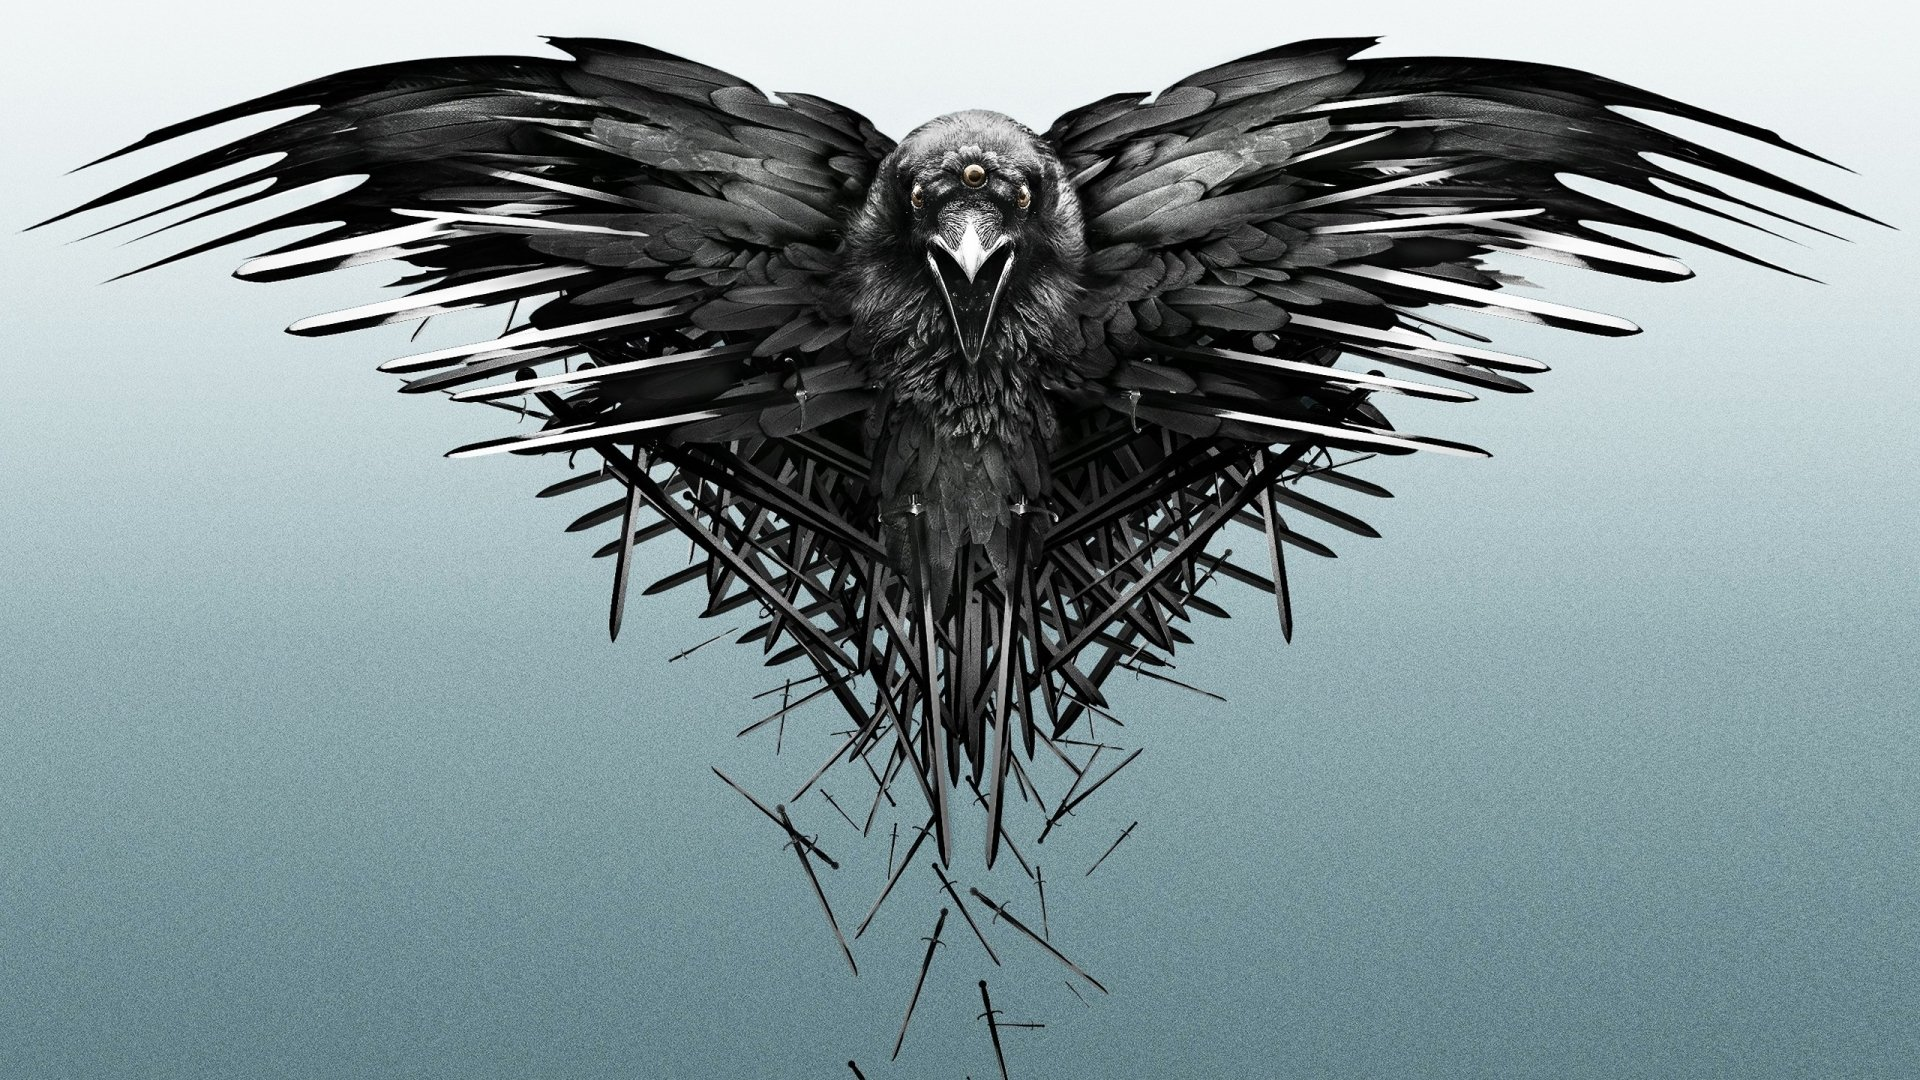
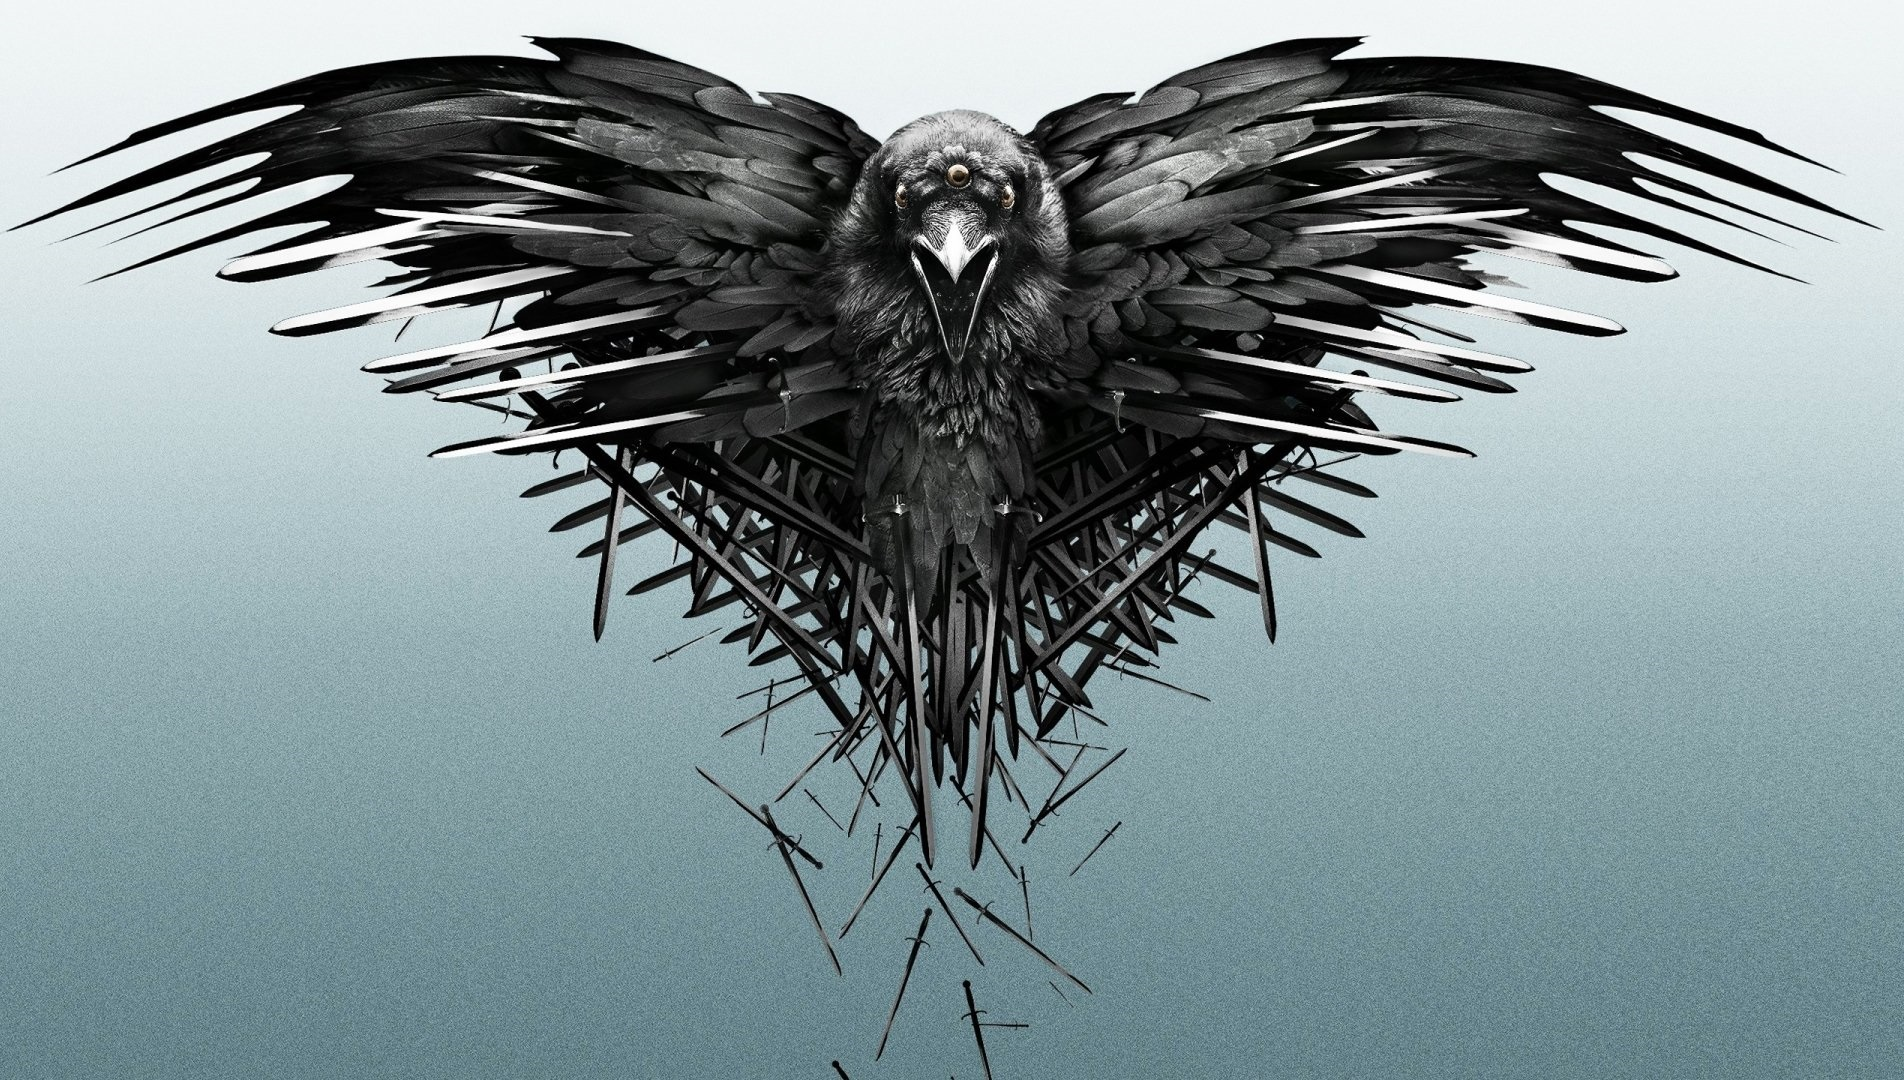
picmod

diff --git a/css/style.css b/css/style.css
@@ -26,7 +26,7 @@ body {
     background-image: url("../assets/back_got.jpg");
     opacity:100%;
     
-    margin-left:1.2rem;  
+    /* margin-left:1.2rem;   */
     background-position: center center;
     background-attachment: fixed;
     background-size: cover;
